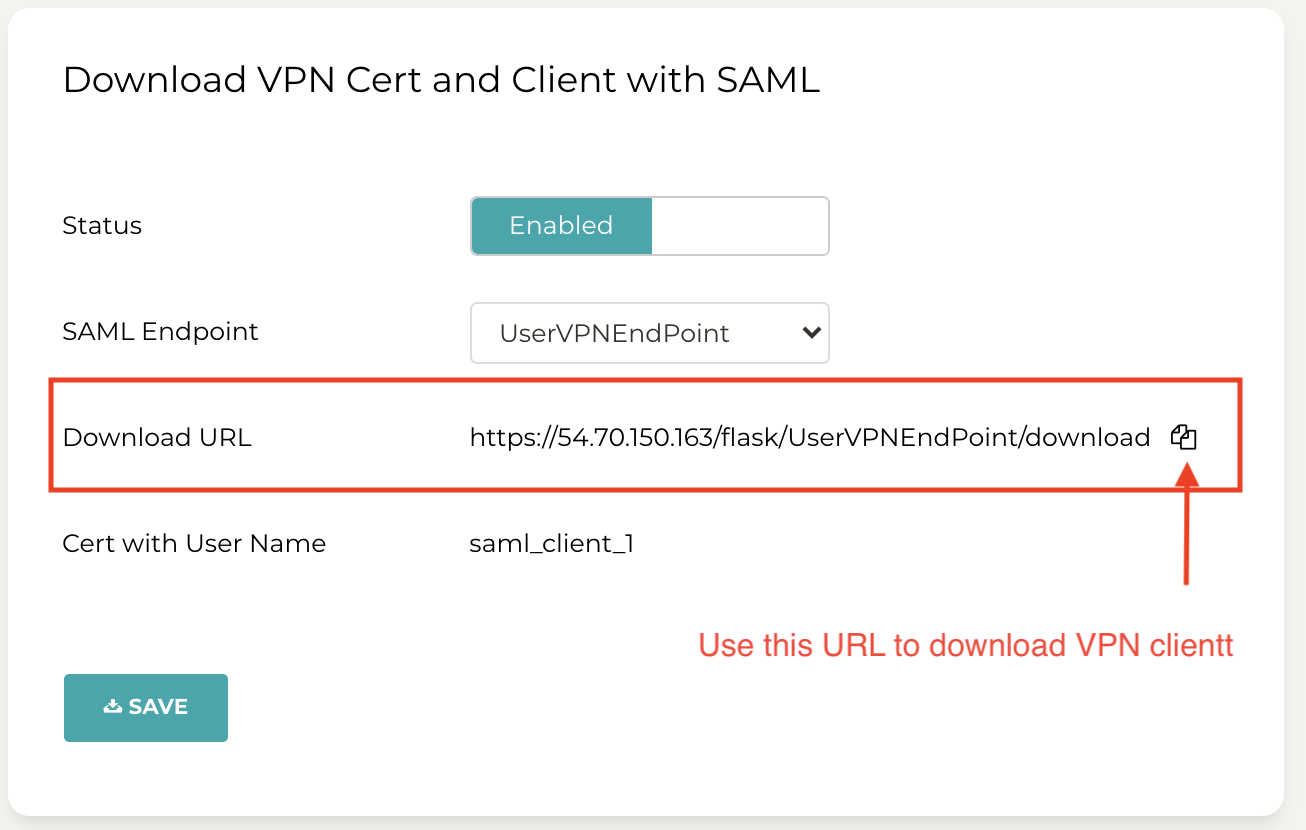
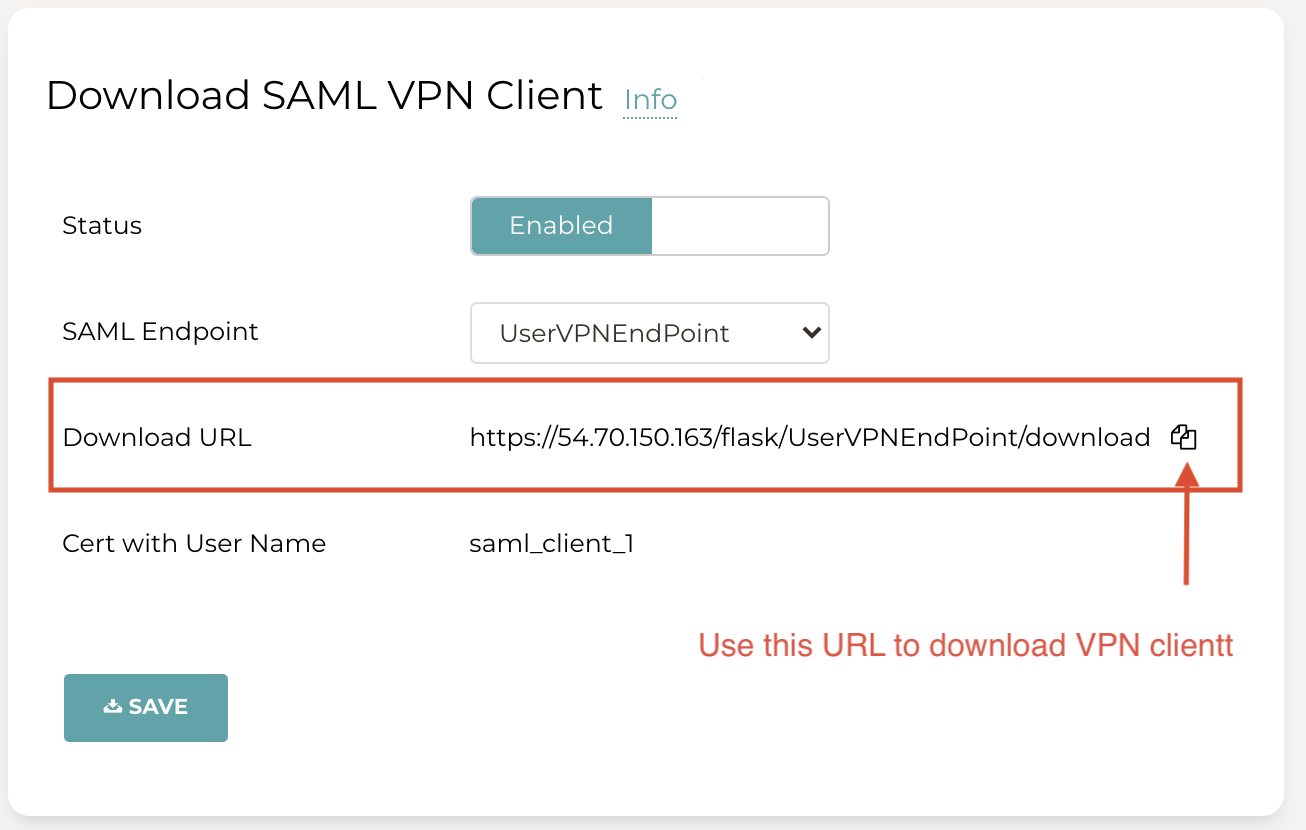
0019357: Change the title for VPN SAML client download as "Download SAML VPN Client"

Changed region(s): [[0.0306, 0.0602, 0.6432, 0.1506]]

diff --git a/HowTos/openvpn_faq.rst b/HowTos/openvpn_faq.rst
@@ -420,14 +420,14 @@ Minimum Aviatrix VPN Client Version feature allows users to set a minimum Aviatr
 
 To configure it, go to OpenVPN® -> Advanced -> Global Config -> Minimum Aviatrix VPN Client Version to set the Aviatrix VPN client version.
 
-What is Download VPN Cert and Client with SAML?
+What is Download SAML VPN Client?
 -----------------------------------------------
 
 This feature only applies to VPN client using SAML authentication. 
 
 It allows users to download the ovpn VPN connection cert file and the VPN client installer in a self-service manner.
 
-To configure it, go to OpenVPN® -> Advanced -> Global Config -> Download VPN Cert and Client with SAML to enable/disable this feature.
+To configure it, go to OpenVPN® -> Advanced -> Global Config -> Download SAML VPN Client to enable/disable this feature.
 
 |client_download|
 
